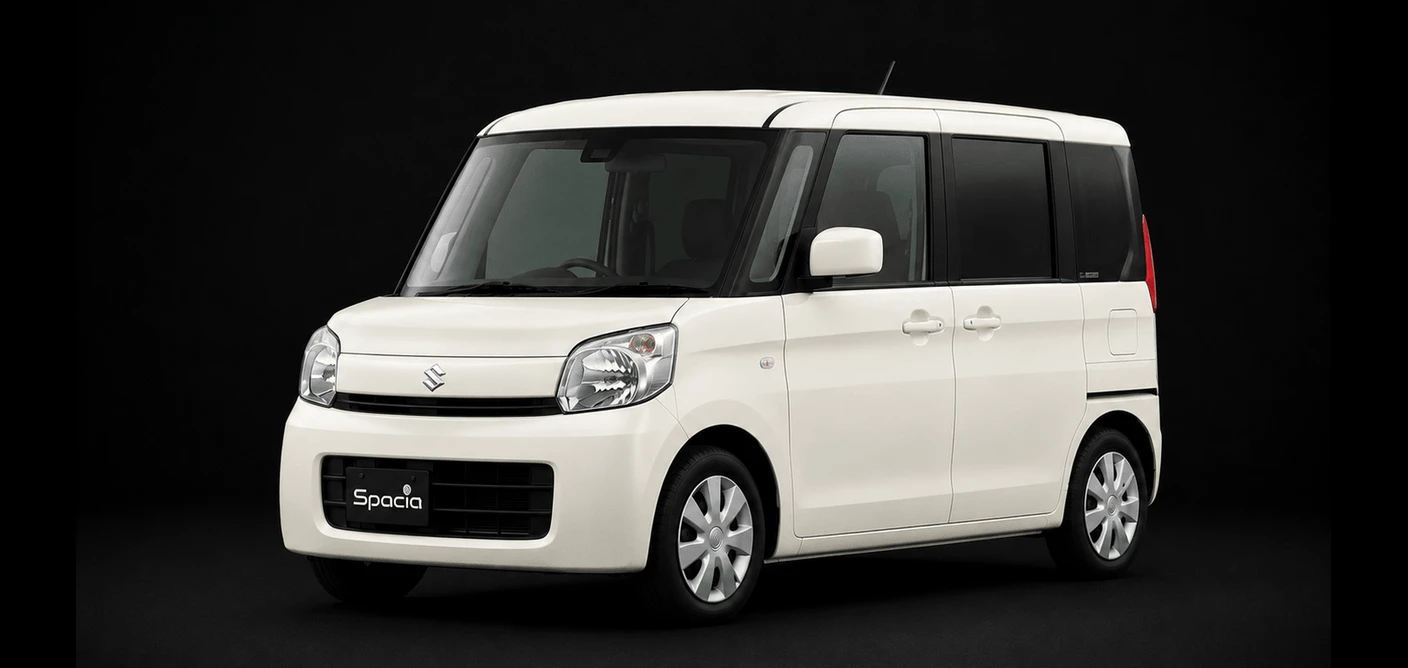
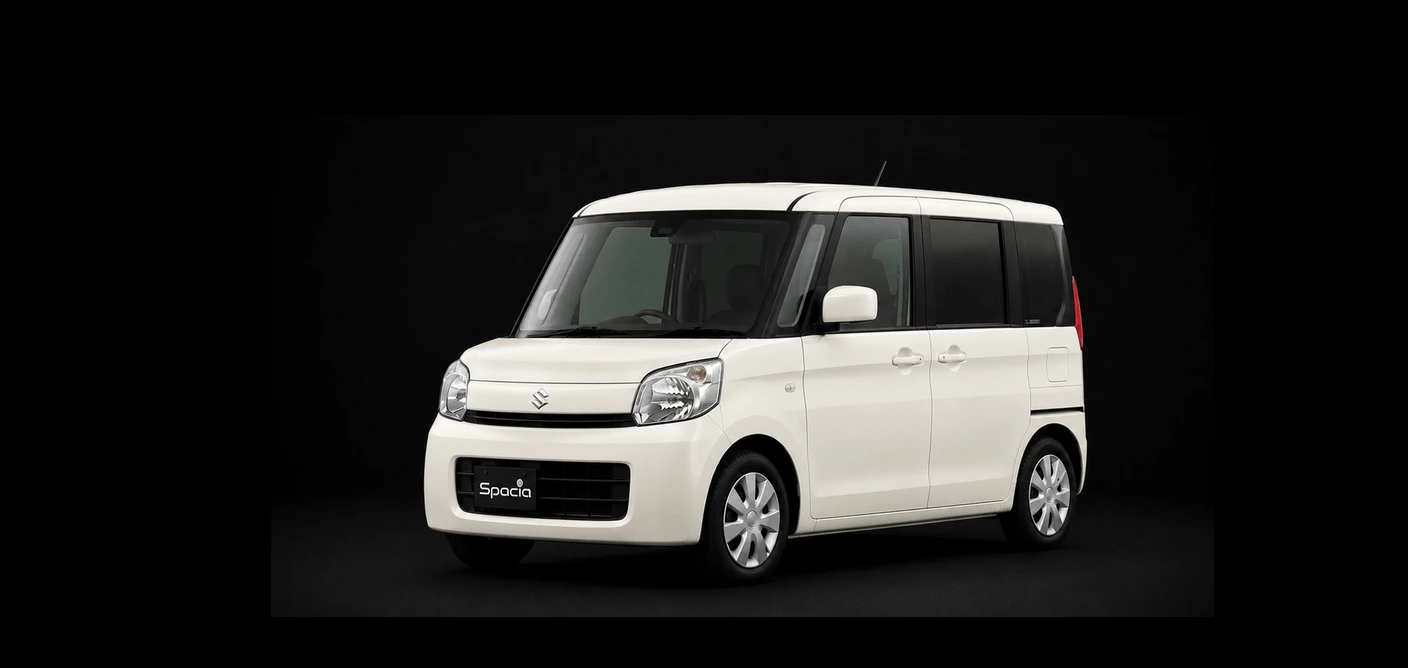
fix: Spacia gen1/gen2 car scale + annotation recalibration
A real screenshot showed gen1/gen2's car noticeably larger than gen3's
(current model) within the shared 1408x668 canvas, despite an earlier
pass claiming they were already uniformly scaled -- that claim wasn't
actually verified against measurements. Measured directly (brightness-
threshold bounding box): gen1/gen2 were 60-63% of frame width vs.
gen3's 47%. Scaled gen1/gen2 down (0.75x/0.78x) to match gen3's width
exactly, treating gen3 as the reference and leaving it untouched;
re-centered on gen3's own bbox center, padded with each image's own
background color. Annotation x/y for all 3 generations re-derived
against the corrected files (grid overlay + marker-dot verification).

Changed region(s): [[0.1562, 0.1198, 0.8438, 1.0]]

diff --git a/src/cars/spacia.js b/src/cars/spacia.js
@@ -22,11 +22,23 @@
 // there is no confirmed 4th generation or confirmed minor-change split
 // for this vehicle to justify a 4th timeline entry (see the note above).
 // It remains in the user's Downloads folder, untouched, in case a future
-// confirmed update gives it a real purpose. gen1-3's photos were
-// uniformly scaled (car-body-width normalized across all 3 -- source
-// photos had different native resolutions/framings) and cropped/padded
-// (background-only) onto the shared 1408x668 canvas; see
-// docs/architecture/image-integration-checklist.md.
+// confirmed update gives it a real purpose.
+//
+// gen1-3 car scale (2026-08-04, corrected): an earlier pass claimed
+// gen1-3 were already "uniformly scaled," but a real screenshot showed
+// gen1/gen2's car noticeably larger than gen3's within the shared
+// 1408x668 canvas -- measured directly (brightness-threshold bounding
+// box, car is white against a near-black background at every row/
+// column) rather than trusting the old claim: gen1/gen2's car bbox
+// width was 60-63% of frame vs. gen3's 47%. gen3 (current model) was
+// treated as the reference and left untouched; gen1/gen2 were uniformly
+// scaled down (0.7517x / 0.7782x respectively -- resize, not a pixel/
+// color edit) so their bbox width matches gen3's exactly, then
+// re-centered on gen3's own bbox center and padded with each image's
+// own sampled background color. Re-verified after: all three now
+// measure 662-663px / ~47% bbox width. Annotation x/y below were
+// re-derived afterward against the corrected files (grid overlay +
+// marker-dot verification against the actual output).
 const generations = [
   {
     numeral: 'I',
@@ -38,8 +50,8 @@ const generations = [
     period: '2013年〜2017年',
     image: '/images/cars/spacia/gen1-2013.webp',
     annotations: [
-      { x: 33, y: 56, label: '縦基調のクロームバー<wbr>グリル', dir: 'bottom', labelX: 31 },
-      { x: 41, y: 56, label: '丸みを帯びた<wbr>ヘッドライト', dir: 'bottom', labelX: 43 },
+      { x: 45, y: 62, label: '縦基調のクロームバー<wbr>グリル', dir: 'bottom', labelX: 35 },
+      { x: 51, y: 61, label: '丸みを帯びた<wbr>ヘッドライト', dir: 'bottom', labelX: 63 },
     ],
     facelift: null,
   },
@@ -53,8 +65,8 @@ const generations = [
     period: '2017年〜2023年',
     image: '/images/cars/spacia/gen2-2017.webp',
     annotations: [
-      { x: 48, y: 53, label: 'Sマークを囲む<wbr>クロームグリル', dir: 'bottom', labelX: 48 },
-      { x: 62, y: 20, label: '水平基調に変わった<wbr>ルーフライン', dir: 'top', labelX: 62 },
+      { x: 46, y: 54, label: 'Sマークを囲む<wbr>クロームグリル', dir: 'bottom', labelX: 46 },
+      { x: 62, y: 21, label: '水平基調に変わった<wbr>ルーフライン', dir: 'top', labelX: 62 },
     ],
     facelift: null,
   },
@@ -68,8 +80,8 @@ const generations = [
     period: '2023年〜現在',
     image: '/images/cars/spacia/gen3-2023.webp',
     annotations: [
-      { x: 48, y: 50, label: 'Sマークを大きく掲げる<wbr>クロームグリル', dir: 'bottom', labelX: 48 },
-      { x: 27, y: 53, label: 'シャープな造形の<wbr>ヘッドライト', dir: 'bottom', labelX: 27 },
+      { x: 46, y: 49, label: 'Sマークを大きく掲げる<wbr>クロームグリル', dir: 'bottom', labelX: 35 },
+      { x: 56, y: 48, label: 'シャープな造形の<wbr>ヘッドライト', dir: 'bottom', labelX: 65 },
     ],
     facelift: null,
   },
